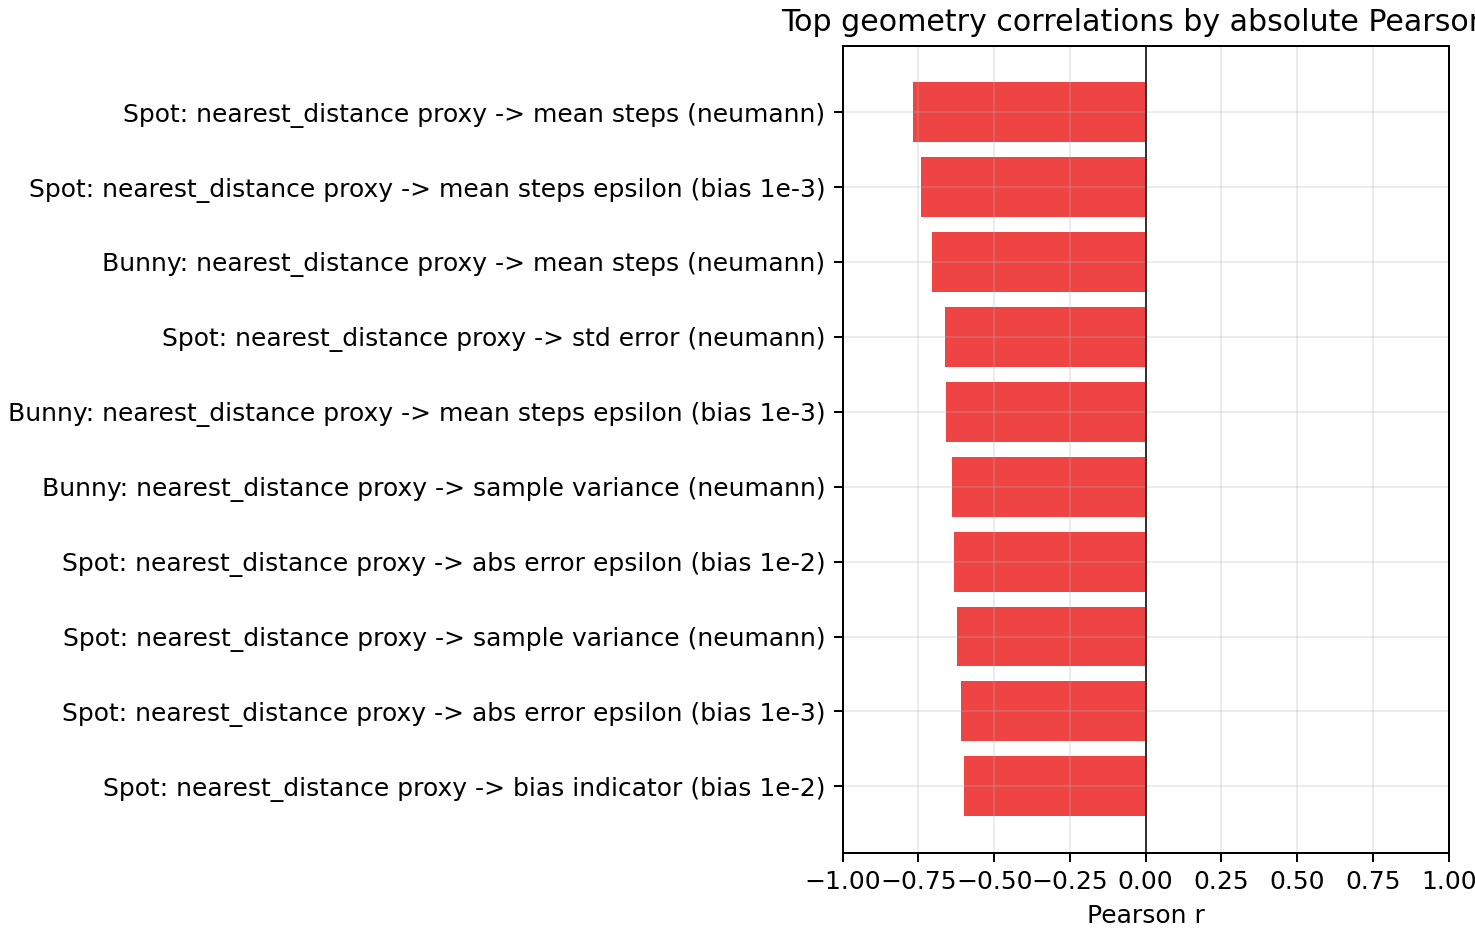
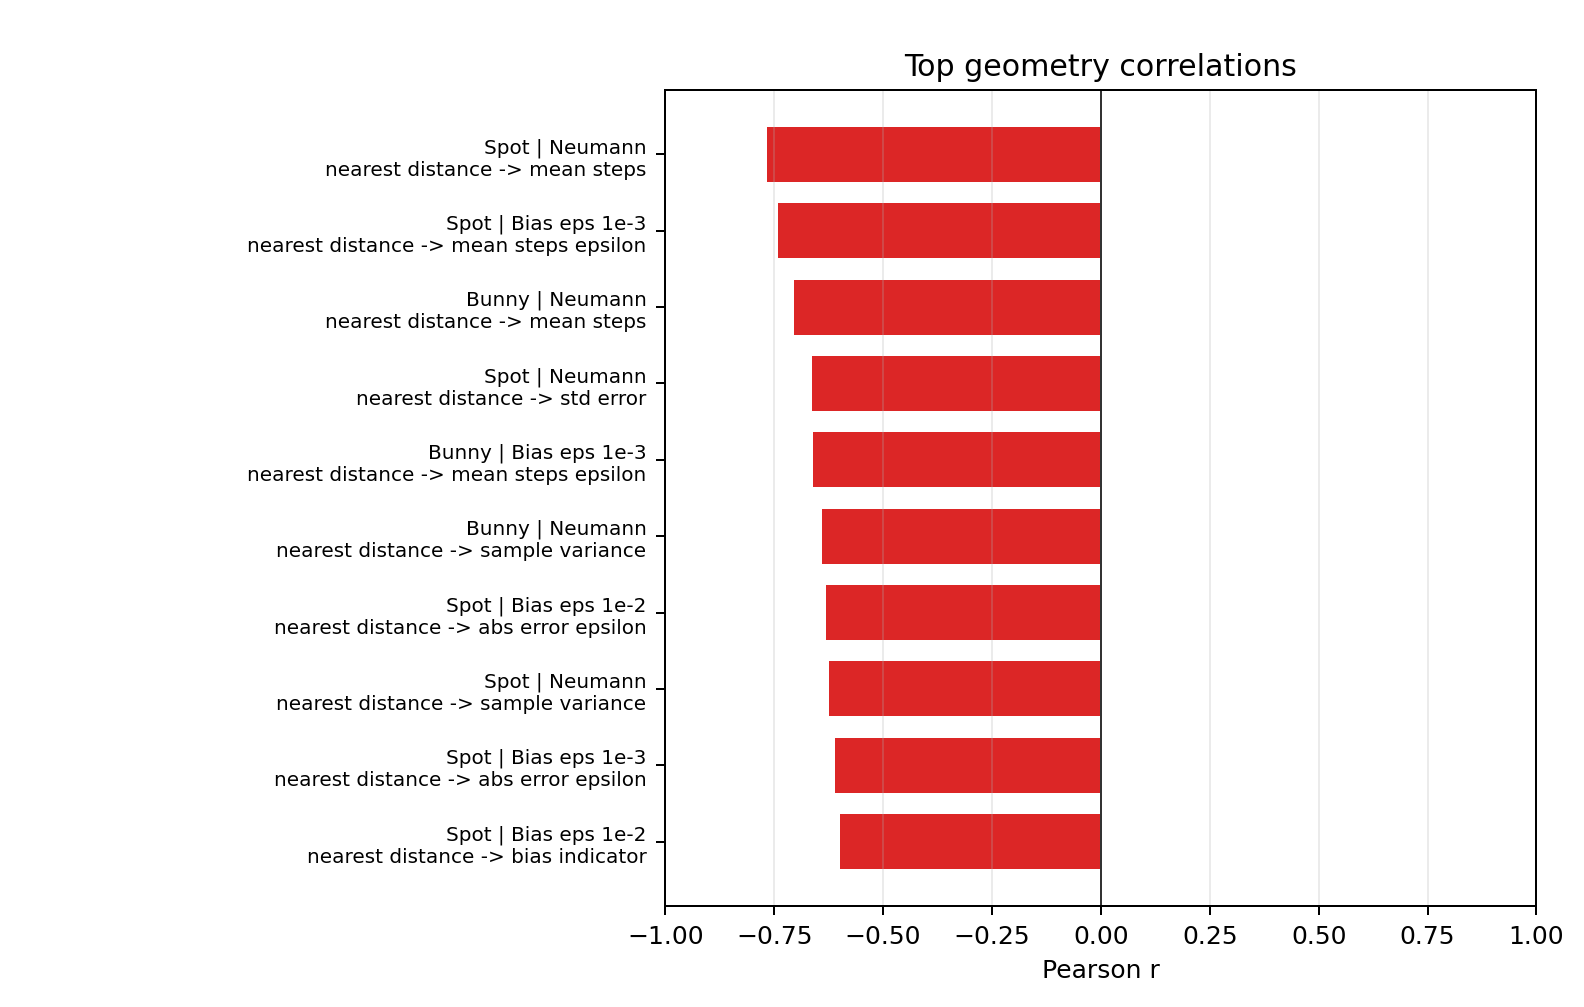
update_0610

Changed region(s): [[0.0, 0.0, 1.0, 0.9915]]

diff --git a/scripts/final_report/build_final_course_report.py b/scripts/final_report/build_final_course_report.py
@@ -317,25 +317,104 @@ def plot_top_correlations(out_name: str) -> Path:
         selected.append({**row, "abs_r": abs(r), "r": r})
     selected = sorted(selected, key=lambda row: row["abs_r"], reverse=True)[:10]
 
+    dataset_names = {
+        "neumann_pointcloud": "Neumann",
+        "bias_eps_1e-2": "Bias eps 1e-2",
+        "bias_eps_1e-3": "Bias eps 1e-3",
+        "adaptive_dirichlet": "Adaptive Dirichlet",
+    }
+    feature_names = {
+        "nearest_distance_proxy_norm": "nearest distance",
+        "local_edge_mean_norm": "local edge",
+        "local_area_norm": "local area",
+        "local_aspect_ratio": "aspect ratio",
+        "local_quality": "quality",
+        "local_normal_variation": "normal variation",
+    }
+
     def label(row: dict[str, Any]) -> str:
-        dataset = str(row["dataset"]).replace("_pointcloud", "").replace("bias_eps_", "bias ")
-        feature = str(row["feature"]).replace("_proxy_norm", " proxy").replace("_norm", "")
+        dataset = dataset_names.get(str(row["dataset"]), str(row["dataset"]))
+        feature = feature_names.get(str(row["feature"]), str(row["feature"]).replace("_", " "))
         target = str(row["target"]).replace("_", " ")
         mesh = str(row["mesh"]).capitalize()
-        return f"{mesh}: {feature} -> {target} ({dataset})"
+        return f"{mesh} | {dataset}\n{feature} -> {target}"
 
     plt = plot_setup()
-    fig, ax = plt.subplots(figsize=(8.2, 5.2), constrained_layout=True)
+    fig, ax = plt.subplots(figsize=(8.8, 5.6))
     labels = [label(row) for row in reversed(selected)]
     values = [row["r"] for row in reversed(selected)]
-    colors = ["#3b82f6" if value >= 0 else "#ef4444" for value in values]
+    colors = ["#2563eb" if value >= 0 else "#dc2626" for value in values]
     y = np.arange(len(values))
-    ax.barh(y, values, color=colors)
+    ax.barh(y, values, color=colors, height=0.72)
     ax.set_yticks(y, labels)
+    ax.tick_params(axis="y", labelsize=8, pad=4)
     ax.set_xlabel("Pearson r")
-    ax.set_title("Top geometry correlations by absolute Pearson r")
+    ax.set_title("Top geometry correlations")
     ax.axvline(0, color="#333333", linewidth=0.8)
     ax.set_xlim(-1.0, 1.0)
+    ax.grid(True, axis="x", alpha=0.25)
+    ax.grid(False, axis="y")
+    fig.subplots_adjust(left=0.42, right=0.97, top=0.91, bottom=0.10)
+    path = ASSET_DIR / out_name
+    fig.savefig(path)
+    plt.close(fig)
+    return path
+
+
+def plot_full_correlations(out_name: str) -> Path:
+    rows = read_csv(GEOM / "geometry_correlations.csv")
+    selected = []
+    for row in rows:
+        r = f(row.get("pearson_r"))
+        if not math.isfinite(r):
+            continue
+        if row.get("dataset") == "dirichlet_pointcloud":
+            continue
+        selected.append({**row, "abs_r": abs(r), "r": r})
+    selected = sorted(selected, key=lambda row: row["abs_r"], reverse=True)[:24]
+
+    dataset_names = {
+        "neumann_pointcloud": "Neumann",
+        "bias_eps_1e-2": "Bias eps 1e-2",
+        "bias_eps_1e-3": "Bias eps 1e-3",
+        "adaptive_dirichlet": "Adaptive Dirichlet",
+    }
+    feature_names = {
+        "nearest_distance_proxy_norm": "nearest distance",
+        "local_edge_mean_norm": "local edge",
+        "local_area_norm": "local area",
+        "local_aspect_ratio": "aspect ratio",
+        "local_quality": "quality",
+        "local_normal_variation": "normal variation",
+    }
+
+    def short_label(row: dict[str, Any]) -> str:
+        mesh = str(row["mesh"]).capitalize()
+        dataset = dataset_names.get(str(row["dataset"]), str(row["dataset"]))
+        feature = feature_names.get(str(row["feature"]), str(row["feature"]).replace("_", " "))
+        target = str(row["target"]).replace("_", " ")
+        return f"{mesh} | {dataset}\n{feature} -> {target}"
+
+    plt = plot_setup()
+    fig, ax = plt.subplots(figsize=(10.5, 7.8))
+    labels = [short_label(row) for row in reversed(selected)]
+    values = [row["r"] for row in reversed(selected)]
+    colors = ["#2563eb" if value >= 0 else "#dc2626" for value in values]
+    y = np.arange(len(values))
+    ax.barh(y, values, color=colors, height=0.72)
+    ax.set_yticks(y, labels)
+    ax.tick_params(axis="y", labelsize=8, pad=4)
+    ax.set_xlabel("Pearson r")
+    ax.set_title("Strongest geometry correlations")
+    ax.axvline(0, color="#333333", linewidth=0.8)
+    finite_values = finite(values)
+    if finite_values:
+        lower = min(-0.05, min(finite_values) - 0.05)
+        upper = max(0.05, max(finite_values) + 0.05)
+        ax.set_xlim(max(-1.0, lower), min(1.0, upper))
+    ax.grid(True, axis="x", alpha=0.25)
+    ax.grid(False, axis="y")
+    fig.subplots_adjust(left=0.36, right=0.97, top=0.93, bottom=0.08)
     path = ASSET_DIR / out_name
     fig.savefig(path)
     plt.close(fig)
@@ -441,6 +520,7 @@ def generate_assets() -> dict[str, Path]:
     assets["epsilon_panel"] = plot_epsilon_panel("fig3_neumann_epsilon_sweep.png")
     assets["boundary_bias_bar"] = plot_boundary_bias_summary("fig4_boundary_bias_indicator_summary.png")
     assets["top_correlations"] = plot_top_correlations("fig5_top10_geometry_correlations.png")
+    assets["correlations"] = plot_full_correlations("fig5_strongest_geometry_correlations.png")
     opt_summary = optimization_diagnostic_summary()
     write_csv(ASSET_DIR / "optimization_diagnostic_summary.csv", opt_summary)
     assets["antithetic_variance"] = plot_antithetic_variance("fig13_antithetic_variance_diagnostic.png")
@@ -463,7 +543,6 @@ def generate_assets() -> dict[str, Path]:
     )
 
     copy_specs = {
-        "correlations": (GEOM / "figures" / "strongest_geometry_correlations.png", "fig5_strongest_geometry_correlations.png"),
         "pointwise_error": (GEOM / "figures" / "neumann_pointcloud_abs_error_scatter.png", "fig5b_pointwise_error_scatter.png"),
         "bunny_heatmap": (CONTROLLED / "epsilon_distance_heatmaps" / "bunny_epsilon_vs_distance_rmse.png", "fig9a_bunny_epsilon_distance_rmse.png"),
         "spot_heatmap": (CONTROLLED / "epsilon_distance_heatmaps" / "spot_epsilon_vs_distance_rmse.png", "fig9b_spot_epsilon_distance_rmse.png"),

diff --git a/scripts/analyze_geometry_sensitive_rerun.py b/scripts/analyze_geometry_sensitive_rerun.py
@@ -439,15 +439,41 @@ def plot_outputs(out_dir: Path, enriched: list[dict[str, Any]], corr_rows: list[
     if corr_rows:
         rows = [r for r in corr_rows if math.isfinite(as_float(r.get("pearson_r")))]
         if rows:
-            labels = [f"{r['mesh']}\n{r['dataset']}\n{r['feature']}->{r['target']}" for r in rows]
+            dataset_names = {
+                "neumann_pointcloud": "Neumann",
+                "bias_eps_1e-2": "Bias eps 1e-2",
+                "bias_eps_1e-3": "Bias eps 1e-3",
+                "adaptive_dirichlet": "Adaptive Dirichlet",
+            }
+            feature_names = {
+                "nearest_distance_proxy_norm": "nearest distance",
+                "local_edge_mean_norm": "local edge",
+                "local_area_norm": "local area",
+                "local_aspect_ratio": "aspect ratio",
+                "local_quality": "quality",
+                "local_normal_variation": "normal variation",
+            }
+            labels = [
+                f"{r['mesh'].capitalize()} | {dataset_names.get(r['dataset'], r['dataset'])}\n"
+                f"{feature_names.get(r['feature'], r['feature'].replace('_', ' '))} -> {r['target'].replace('_', ' ')}"
+                for r in rows
+            ]
             vals = [as_float(r["pearson_r"]) for r in rows]
             order = np.argsort(np.abs(vals))[-24:]
-            fig, ax = plt.subplots(figsize=(10, 7), constrained_layout=True)
-            ax.barh(np.arange(len(order)), [vals[i] for i in order])
-            ax.set_yticks(np.arange(len(order)), [labels[i] for i in order], fontsize=7)
+            fig, ax = plt.subplots(figsize=(10.5, 7.8))
+            ordered_vals = [vals[i] for i in order]
+            colors = ["#2563eb" if value >= 0 else "#dc2626" for value in ordered_vals]
+            ax.barh(np.arange(len(order)), ordered_vals, color=colors, height=0.72)
+            ax.set_yticks(np.arange(len(order)), [labels[i] for i in order], fontsize=8)
+            ax.tick_params(axis="y", pad=4)
             ax.axvline(0, color="black", lw=0.8)
             ax.set_xlabel("Pearson r")
             ax.set_title("Strongest geometry correlations")
+            if ordered_vals:
+                ax.set_xlim(max(-1.0, min(ordered_vals) - 0.05), min(1.0, max(ordered_vals) + 0.05))
+            ax.grid(True, axis="x", alpha=0.25)
+            ax.grid(False, axis="y")
+            fig.subplots_adjust(left=0.36, right=0.97, top=0.93, bottom=0.08)
             fig.savefig(fig_dir / "strongest_geometry_correlations.png", dpi=180)
             plt.close(fig)
 

diff --git a/main.cpp b/main.cpp
@@ -2311,20 +2311,9 @@ void RunGeometryBenchmark(const WoStGeometryBackend& interior,
     namespace fs = std::filesystem;
     fs::create_directories("results");
 
-    const int geometryQueries = std::max(200, std::min(opts.numQueryPoints, 5000));
+    const int geometryQueries = opts.numQueryPoints;
     RunGeometryDistanceBenchmark(interior, meshName, "tiny_bvh", geometryQueries,
                                  opts.seed ^ 0xBEE5u, opts.cubeHalfExtent);
-
-    const uint64_t bruteWork = static_cast<uint64_t>(geometryQueries) *
-                               static_cast<uint64_t>(std::max(1u, interior.TriangleCount()));
-    if (bruteWork > 250000000ull) {
-        std::cout << "\nSkipping brute_force distance benchmark because "
-                  << geometryQueries << " queries * " << interior.TriangleCount()
-                  << " triangles would be too slow. Re-run with fewer --queries "
-                  << "if you need the exact brute-force data point.\n";
-        return;
-    }
-
     RunGeometryDistanceBenchmark(interior, meshName, "brute_force", geometryQueries,
                                  opts.seed ^ 0xBEE5u, opts.cubeHalfExtent);
 }